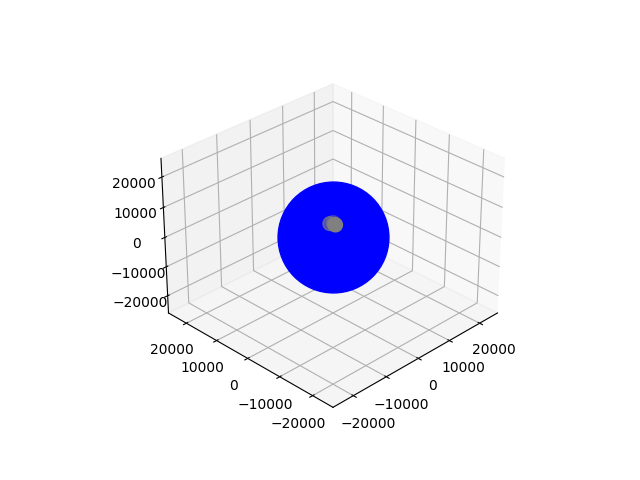
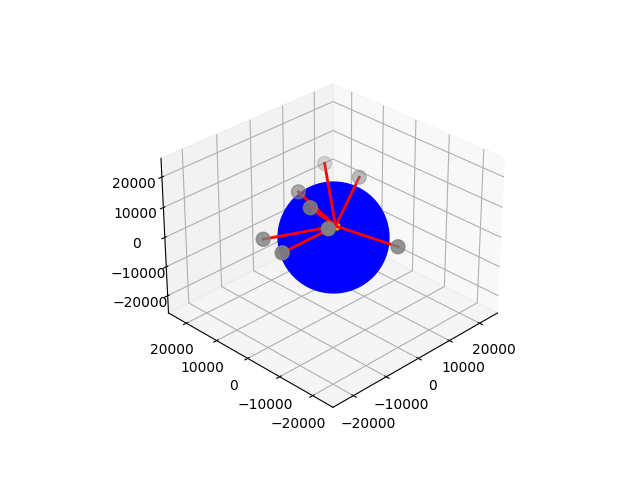
búið, bara að keyra eftir

Changed region(s): [[0.4062, 0.3125, 0.5938, 0.5625], [0.5938, 0.5, 0.6562, 0.5312]]

diff --git a/d4.py b/d4.py
@@ -3,6 +3,7 @@ import math
 from Satelite import DynamicSystem, SateliteConnection
 from gps_plot import plot_satelites
 from test_fixture import TestGps, run_tests, SateliteGenerator
+from tabulate import tabulate
 
 
 
@@ -14,13 +15,16 @@ if __name__ == '__main__':
 
     print(df_lin)
 
-    test = TestGps((2,1.00004))
-    guess = test.get_initial_guess()
-    ds = DynamicSystem(test.get_random_satelites(math.pi/4, math.pi/3, n=4))
-    pos = ds.solve_GN(guess)
-    print(pos)
-    print(test.get_receiver_pos())
-    print("error: ", math.sqrt(sum([(x-y)**2 for x,y in zip(pos[:-1], test.get_receiver_pos())])))
-    plot_satelites(ds, pos)
+
+    print(tabulate(df_lin, tablefmt="latex", floatfmt=".2f"))
+
+    # test = TestGps((2,1.00004))
+    # guess = test.get_initial_guess()
+    # ds = DynamicSystem(test.get_random_satelites(math.pi/4, math.pi/3, n=4))
+    # pos = ds.solve_GN(guess)
+    # print(pos)
+    # print(test.get_receiver_pos())
+    # print("error: ", math.sqrt(sum([(x-y)**2 for x,y in zip(pos[:-1], test.get_receiver_pos())])))
+    # plot_satelites(ds, pos)
 
 

diff --git a/test_fixture.py b/test_fixture.py
@@ -54,7 +54,7 @@ SateliteGenerator = Callable[[], list[SateliteConnection]]
 
 def run_tests(angles: list[tuple[float]], phi_diff, theta_diff, n_sat, iters: int = 50, t_err_min: float = 10**(-12), t_err_max: float = 10**(-8), random=False) -> pd.DataFrame:
     df = pd.DataFrame(index=angles, columns=["min_pos_error", "avg_pos_error", "max_pos_error", "condition_number"])
-    
+    df.index.name = "receiver_angle"
     for x in angles:
         test = TestGps(x)
         guess = test.get_initial_guess()

diff --git a/d6.py b/d6.py
@@ -17,7 +17,7 @@ if __name__ == '__main__':
 
     test = TestGps((2,1.00004))
     guess = test.get_initial_guess()
-    ds = DynamicSystem(test.get_random_satelites(math.pi/80, math.pi/80, n=4))
+    ds = DynamicSystem(test.get_random_satelites(math.pi/4, math.pi/4, n=8))
     pos = ds.solve_GN(guess)
     print(pos)
     print(test.get_receiver_pos())

diff --git a/d5.py b/d5.py
@@ -8,7 +8,7 @@ from test_fixture import TestGps, run_tests, SateliteGenerator
 
 
 if __name__ == '__main__':
-    receivers =  [(0,0), (1.5, 1.5)]
+    receivers =  [(0,0), (-2,1), (2,1), (1.5, 0), (12,20)]
     
 
     df_lin = run_tests(receivers, phi_diff=math.pi/80, theta_diff=math.pi/20, iters=20, n_sat=4, random=False)
